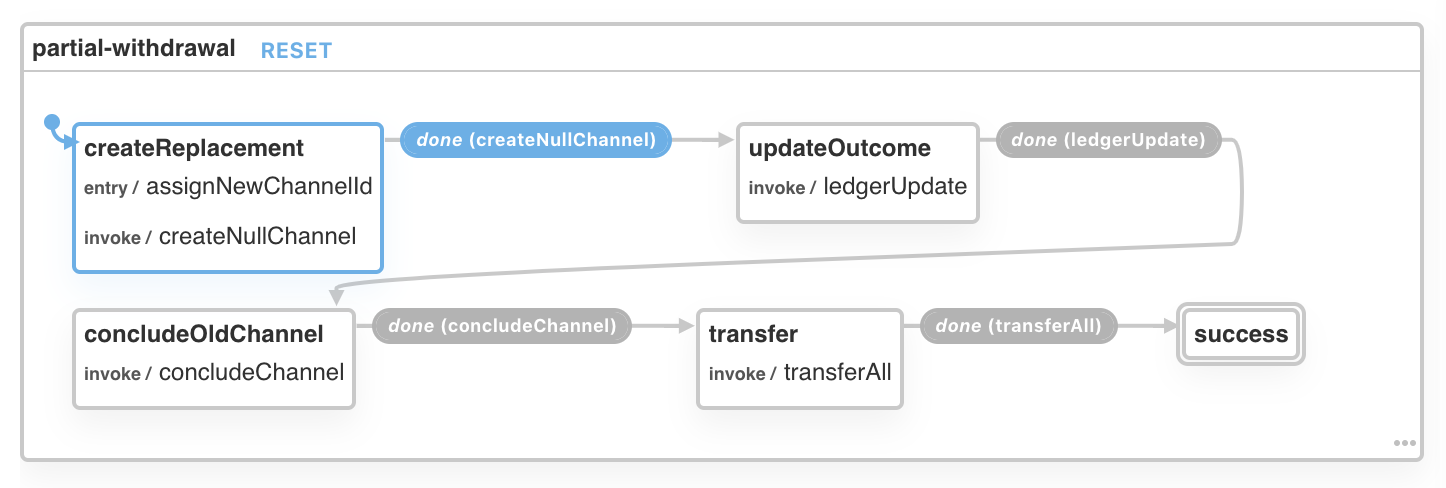
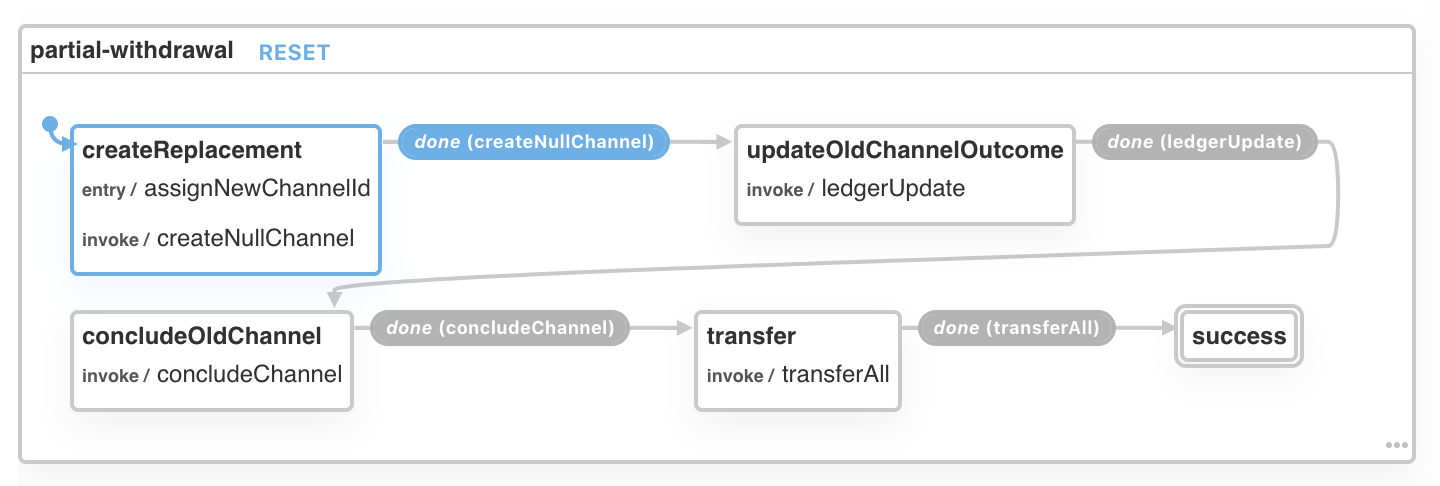
Better state name

diff --git a/src/protocols/partial-withdrawal/protocol.ts b/src/protocols/partial-withdrawal/protocol.ts
@@ -46,7 +46,7 @@ const createReplacement = {
   invoke: {
     src: 'createNullChannel',
     data: replacementChannelArgs.name,
-    onDone: 'updateOutcome',
+    onDone: 'updateOldChannelOutcome',
   },
 };
 type NewChannelCreated = Init & { newChannelId: string };
@@ -62,7 +62,7 @@ export function concludeOutcome({
     currentTurnNum: state.turnNum,
   };
 }
-const updateOutcome = {
+const updateOldChannelOutcome = {
   invoke: {
     src: 'ledgerUpdate',
     data: concludeOutcome.name,
@@ -96,7 +96,7 @@ const config = {
   initial: 'createReplacement',
   states: {
     createReplacement,
-    updateOutcome,
+    updateOldChannelOutcome,
     concludeOldChannel,
     transfer,
     success,

diff --git a/src/protocols/partial-withdrawal/protocol.config.js b/src/protocols/partial-withdrawal/protocol.config.js
@@ -7,13 +7,13 @@ const config = {
       invoke: {
         src: 'createNullChannel',
         data: 'replacementChannelArgs',
-        onDone: 'updateOutcome',
+        onDone: 'updateOldChannelOutcome',
       },
     },
-    updateOutcome: {
+    updateOldChannelOutcome: {
       invoke: {
         src: 'ledgerUpdate',
-        data: 'newOutcome',
+        data: 'concludeOutcome',
         onDone: 'concludeOldChannel',
       },
     },
